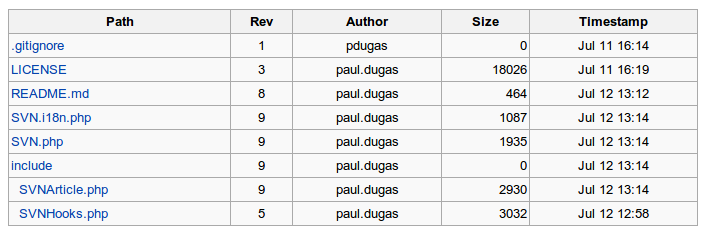
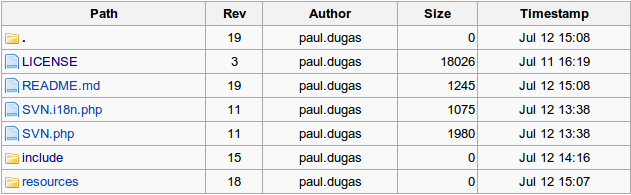
God, I need to learn git...

Changed region(s): [[0.0, 0.0, 1.0, 1.0]]

diff --git a/include/SVNHooks.php b/include/SVNHooks.php
@@ -43,6 +43,7 @@ class SVNHooks
       if (!$info) { return $url; }
 
       if ($info['type'] == 'dir') {
+        $parser->getOutput()->addModules('ext.SVN');
         $ret = "{| class=\"wikitable\" width=\"100%\"\n".
                "! Path\n".
                "! Rev\n".
@@ -50,20 +51,27 @@ class SVNHooks
                "! Size\n".
                "! Timestamp\n".
                "|-\n".
-               "|[[{$wgExtraNamespaces[NS_SVN]}:$url|.]]\n".
+               "|[[{$wgExtraNamespaces[NS_SVN]}:$url|".
+                 "<span class=\"mw-SVN-folder\">.</span>]]\n".
                "|style=\"text-align:center;\"|{$info['created_rev']}\n".
                "|style=\"text-align:center;\"|{$info['last_author']}\n".
                "|style=\"text-align:right;\"|{$info['size']}\n".
-               "|style=\"text-align:center;\"|{$info['time']}\n".
-               "|-\n".
-               "|[[{$wgExtraNamespaces[NS_SVN]}:$parent|..]]\n".
-               "|style=\"text-align:center;\"|{$dotdot['created_rev']}\n".
-               "|style=\"text-align:center;\"|{$dotdot['last_author']}\n".
-               "|style=\"text-align:right;\"|{$dotdot['size']}\n".
-               "|style=\"text-align:center;\"|{$dotdot['time']}\n";
+               "|style=\"text-align:center;\"|{$info['time']}\n";
+        if ($dotdot) {
+          $ret .= "|-\n".
+                  "|[[{$wgExtraNamespaces[NS_SVN]}:$parent|".
+                     "<span class=\"mw-SVN-folder\">..</span>]]\n".
+                  "|style=\"text-align:center;\"|{$dotdot['created_rev']}\n".
+                  "|style=\"text-align:center;\"|{$dotdot['last_author']}\n".
+                  "|style=\"text-align:right;\"|{$dotdot['size']}\n".
+                  "|style=\"text-align:center;\"|{$dotdot['time']}\n";
+        }
         foreach (svn_ls($url, $rev) as $ls) {
           $ret .= "|-\n".
-                  "|[[{$wgExtraNamespaces[NS_SVN]}:$url/{$ls['name']}|{$ls['name']}]]\n".
+                  "|[[{$wgExtraNamespaces[NS_SVN]}:$url/{$ls['name']}".
+                    "|<span class=\"mw-SVN-".
+                    ($ls['type']=='dir'?'folder':'file')."\">".
+                    "{$ls['name']}</span>]]\n".
                   "|style=\"text-align:center;\"|{$ls['created_rev']}\n".
                   "|style=\"text-align:center;\"|{$ls['last_author']}\n".
                   "|style=\"text-align:right;\"|{$ls['size']}\n".

diff --git a/SVN.php b/SVN.php
@@ -43,6 +43,12 @@ $wgAutoloadClasses['SVNArticle'] = $inc.'/SVNArticle.php';
 
 $wgExtensionMessagesFiles['SVN'] = $dir.'/SVN.i18n.php';
 
+$wgResourceModules['ext.SVN'] = array(
+  'styles' => 'resources/ext.SVN.css',
+  'localBasePath' => __DIR__,
+  'remoteExtPath' => 'MediaWiki-SVN'
+);
+
 $wgHooks['ArticleFromTitle'][] = 'SVNHooks::onArticleFromTitle';
 $wgHooks['ParserFirstCallInit'][] = 'SVNHooks::onFirstCallInit';
 $wgHooks['LinkBegin'][] = 'SVNHooks::onLinkBegin';
